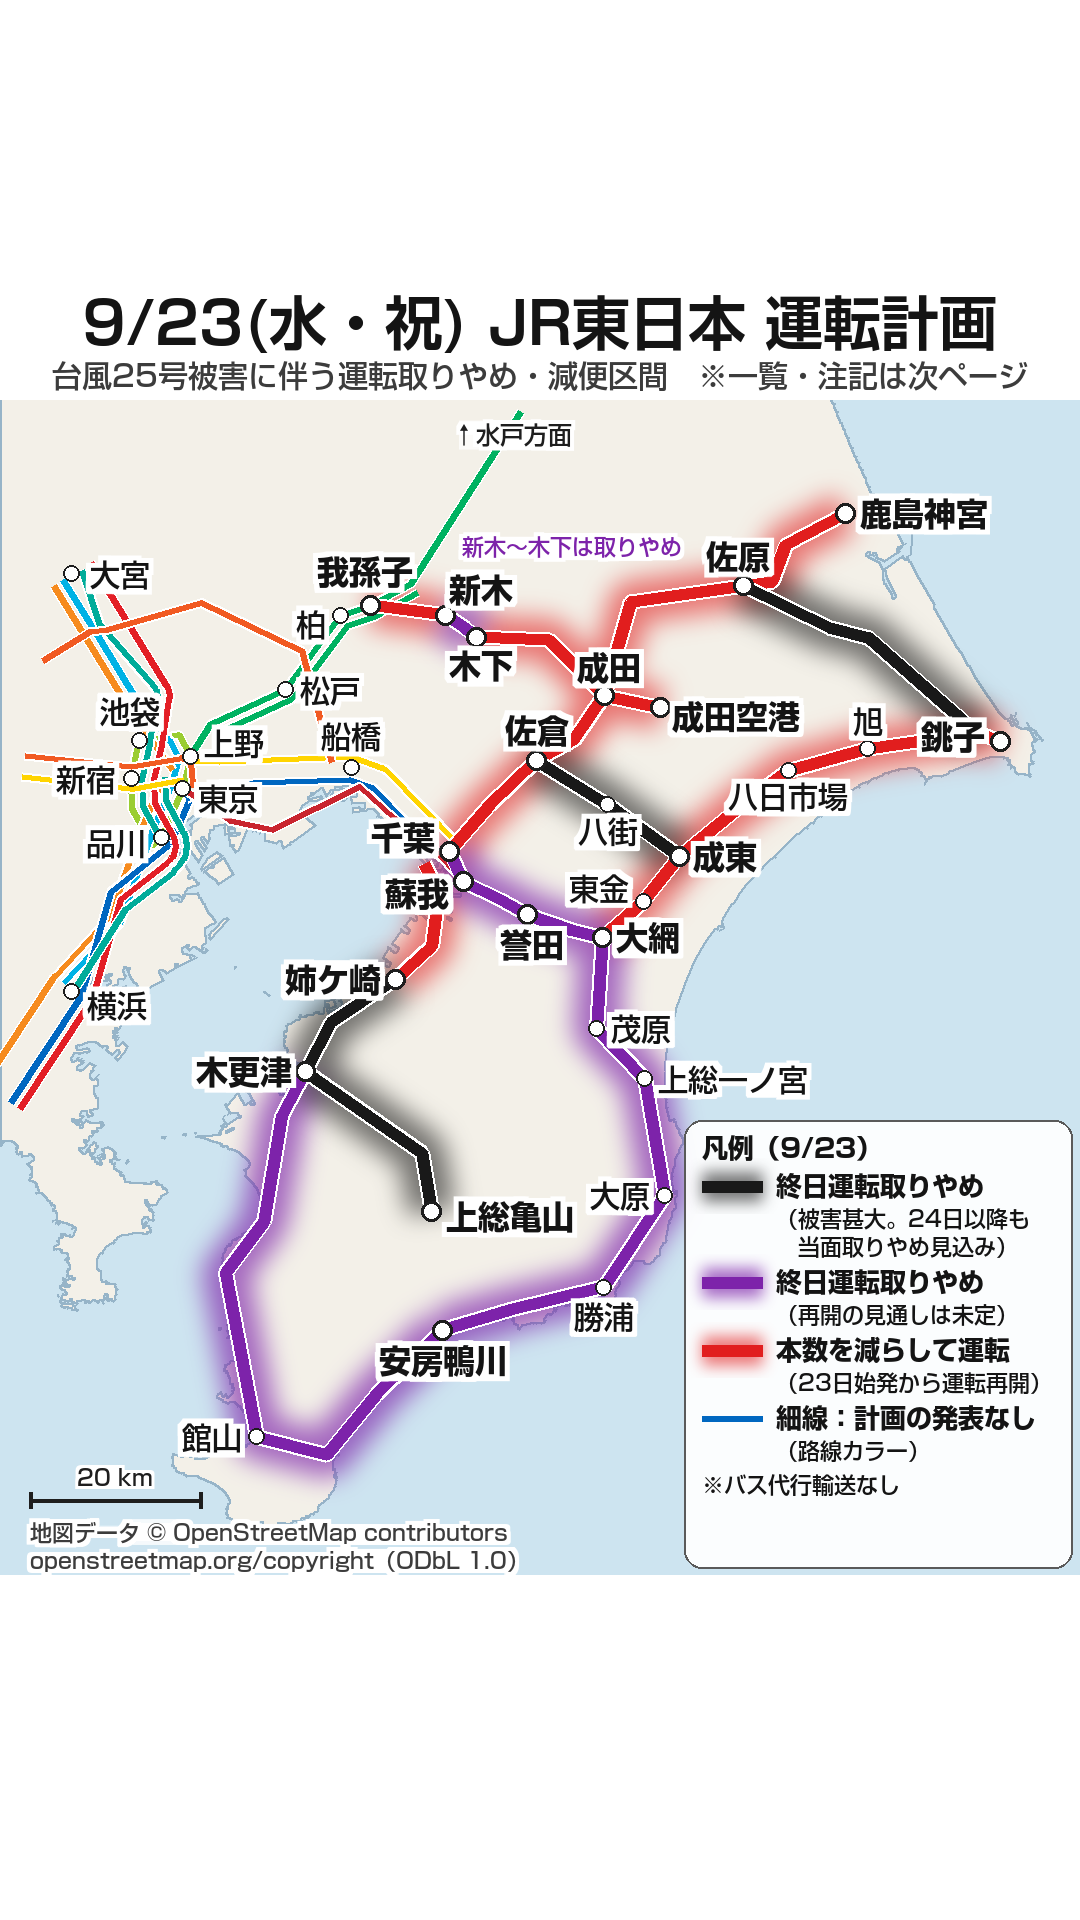
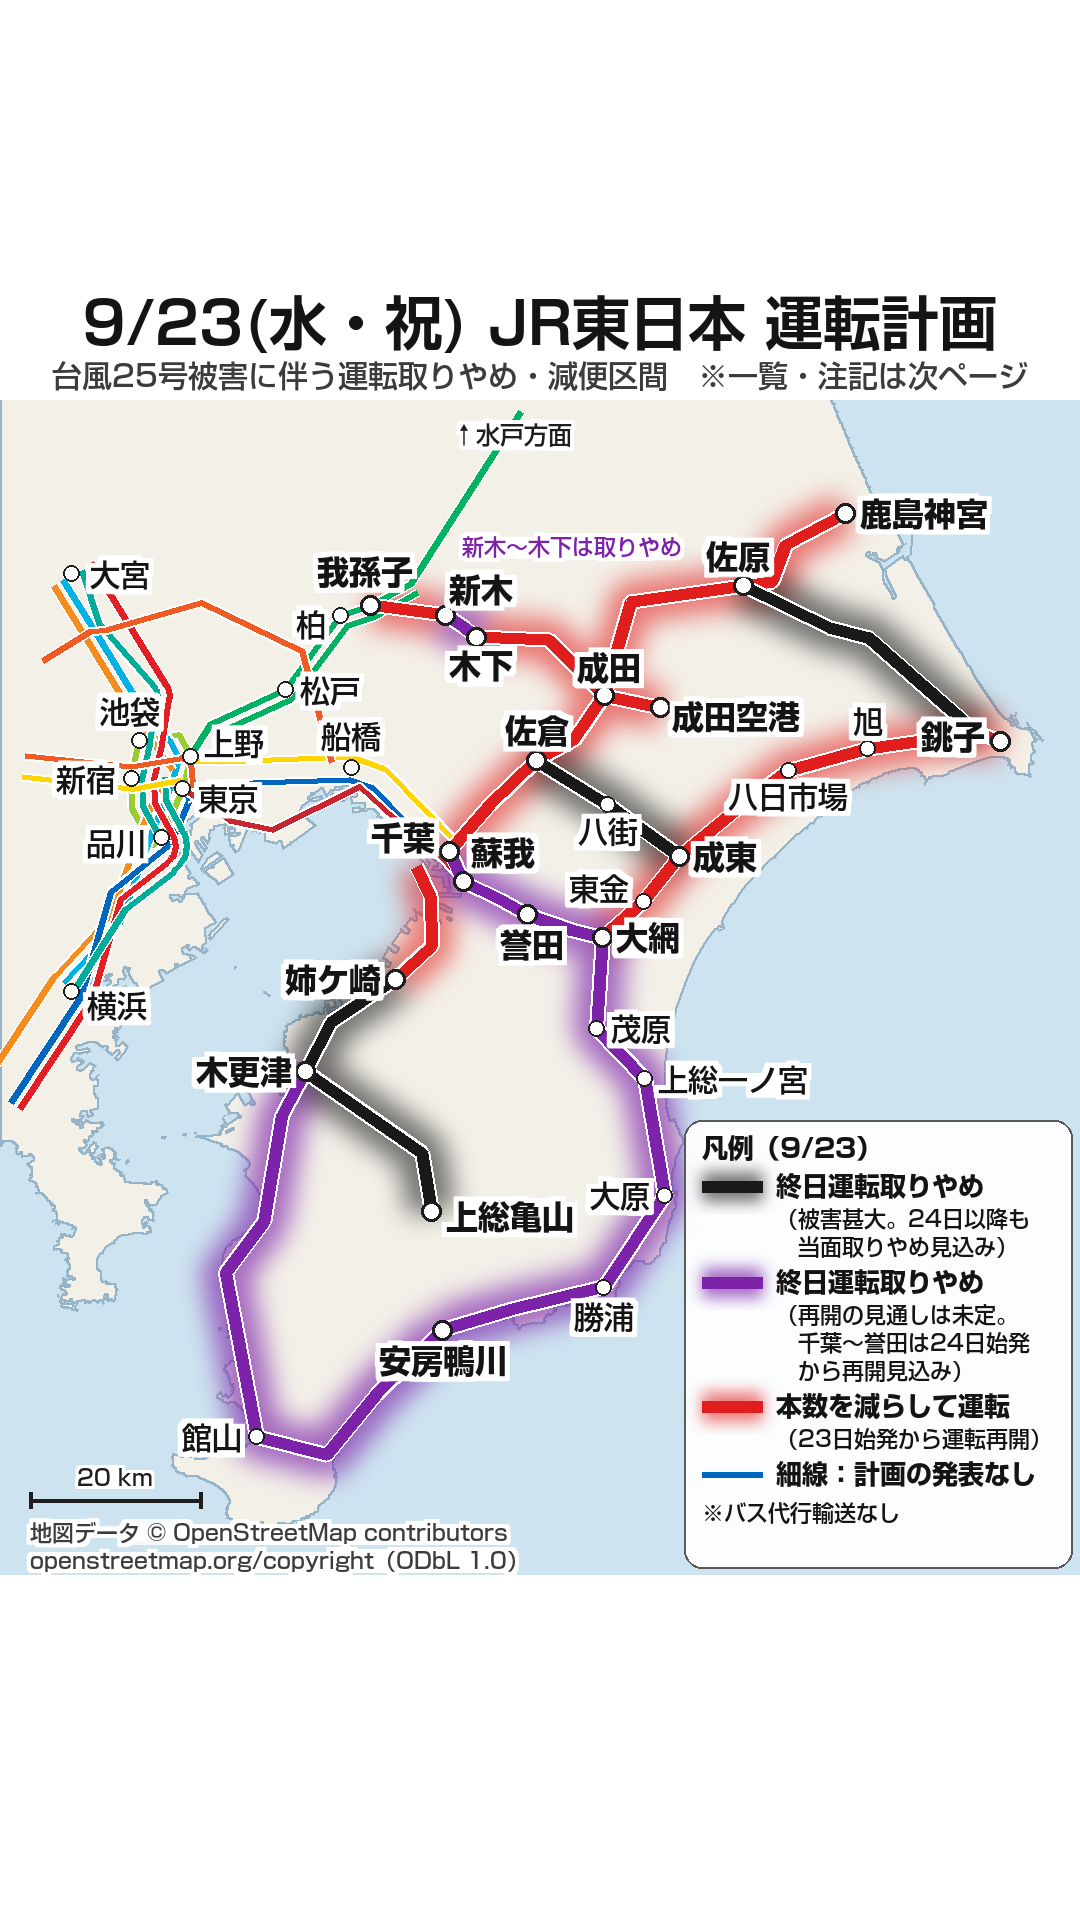
9/23 の地図：千葉〜蘇我の併記を見やすくし、凡例の紫の説明に千葉〜誉田の例外を追記
- 蘇我の駅名を右上へ移し、内房線（赤）の並走線（36px 西側）を隠さないようにした
- 凡例の細線の項を1行にして、紫の項に「千葉〜誉田は24日始発から再開見込み」を入れた

Changed region(s): [[0.6417, 0.6875, 0.9778, 0.8125], [0.3361, 0.4062, 0.4889, 0.5]]

diff --git a/scripts/render_map_20260923.py b/scripts/render_map_20260923.py
@@ -100,7 +100,7 @@ RED_LINES = [
 LB = {
  '東京':('lm',16,10,0),'新宿':('rm',-16,0,0),'池袋':('mb',-10,-14,0),'上野':('lm',14,-14,0),'品川':('rm',-16,6,0),
  '横浜':('lm',16,14,0),'大宮':('lm',18,0,0),'船橋':('mb',0,-16,0),
- '千葉':('rm',-14,-14,1),'蘇我':('rm',-14,12,1),'誉田':('mt',4,14,1),'大網':('lm',14,0,1),'茂原':('lm',14,0,0),
+ '千葉':('rm',-14,-14,1),'蘇我':('lb',8,-12,1),'誉田':('mt',4,14,1),'大網':('lm',14,0,1),'茂原':('lm',14,0,0),
  '上総一ノ宮':('lm',14,0,0),'大原':('rm',-14,0,0),'勝浦':('mt',0,14,0),'安房鴨川':('mt',0,14,1),'館山':('rm',-14,0,0),
  '姉ケ崎':('rm',-14,0,1),'木更津':('rm',-14,0,1),'上総亀山':('lm',14,4,1),
  '佐倉':('mb',0,-12,1),'成田':('mb',4,-12,1),'成田空港':('lm',12,8,1),'成東':('lm',14,0,1),'東金':('rm',-14,-14,0),
@@ -150,10 +150,11 @@ def offset_pts(names, k):
     return [list(g.coords) for g in geoms if len(g.coords)>=2]
 def uchibo_pts():
     """内房線（赤）千葉〜姉ケ崎。千葉〜蘇我は外房線（紫）と同じ線路を走るため、
-    線の幅より広い 28px だけ西側（東京湾側）へ並べ、蘇我から五井へ向かう間で本来の位置へ戻す。"""
+    線の幅より広い 36px だけ西側（東京湾側）へ並べ、蘇我から五井へ向かう間で本来の位置へ戻す。
+    蘇我の駅名は東側（右上）に置き、この赤線を隠さないようにしている。"""
     a, b = raw_pts(['千葉'])[0], raw_pts(['蘇我'])[0]
     dx, dy = b[0]-a[0], b[1]-a[1]; L = math.hypot(dx, dy)
-    nx, ny = -dy/L*28, dx/L*28
+    nx, ny = -dy/L*36, dx/L*36
     return [(a[0]+nx, a[1]+ny), (b[0]+nx, b[1]+ny)] + raw_pts(['五井','姉ケ崎'])
 RED_EXTRA = [uchibo_pts()]
 
@@ -227,9 +228,9 @@ def item(sw, lines):
         ld.text((x0+74,y+(0 if i==0 else 4+i*28)),t,font=f_leg if i else f_legB,fill=(20,20,20),anchor='lm')
     y+= 28*len(lines)+12
 item('black',['終日運転取りやめ','（被害甚大。24日以降も','　当面取りやめ見込み）'])
-item('purple',['終日運転取りやめ','（再開の見通しは未定）'])
+item('purple',['終日運転取りやめ','（再開の見通しは未定。','　千葉〜誉田は24日始発','　から再開見込み）'])
 item('red',['本数を減らして運転','（23日始発から運転再開）'])
-item('thin',['細線：計画の発表なし','（路線カラー）'])
+item('thin',['細線：計画の発表なし'])
 ld.text((LX0+18,y-2),'※バス代行輸送なし',font=f_leg,fill=(20,20,20),anchor='lm')
 
 sx,sy=30,MAP_BOT-75; L20=20*PXKM
